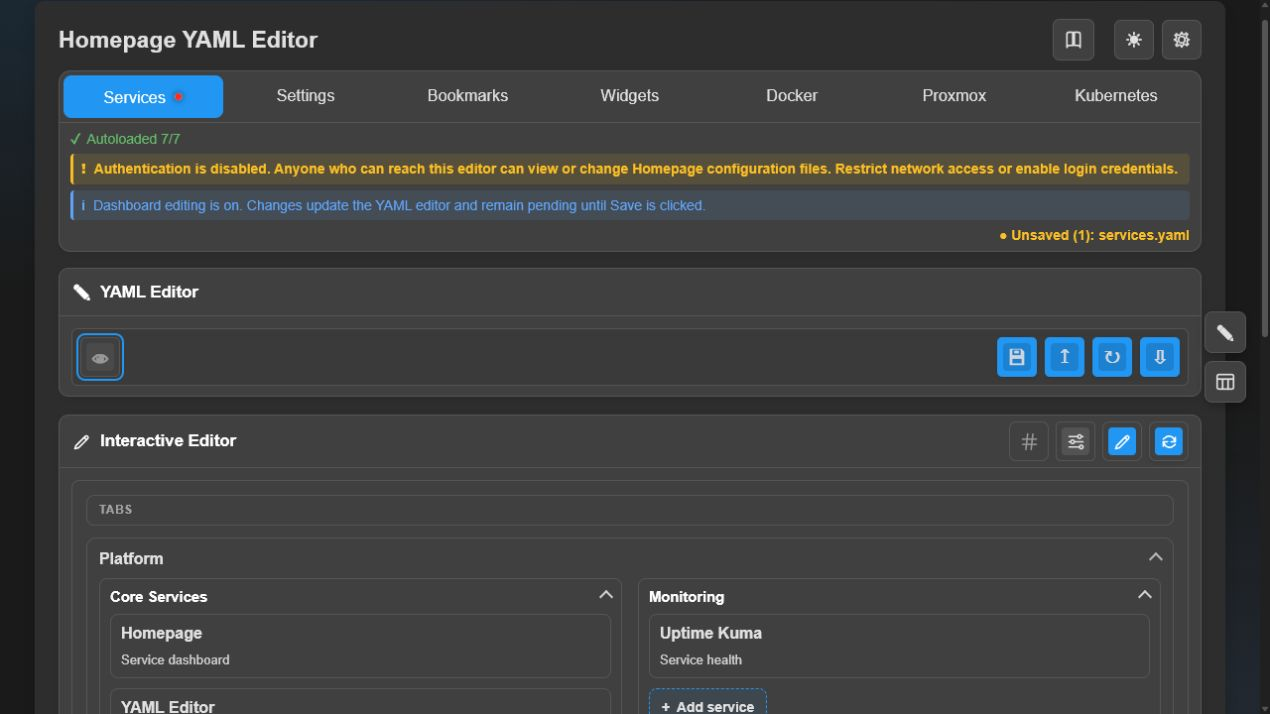
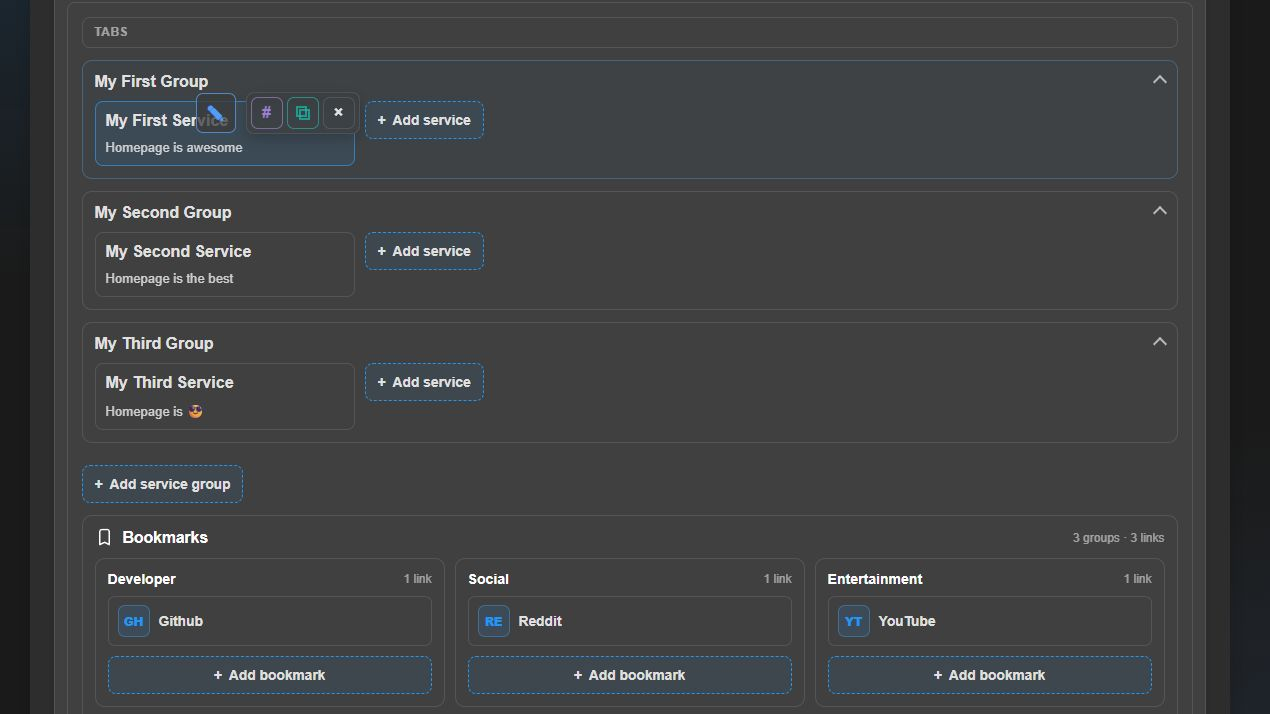
docs: update README with corrected screenshots, deployment instructions, and typos
- Replace old screenshots with updated versions (yaml-editor.jpg, live-preview.jpg)
- Remove deprecated test-yaml-editor.jpg
- Fix broken curl command in Docker Compose quick start
- Fix grammar and typos (int he -> in the, a Interactive -> an Interactive)
- Bump styles.css cache version to 236

diff --git a/public/styles.css b/public/styles.css
@@ -1185,8 +1185,9 @@
         }
         .preview-tab > .preview-edit-actions {
             position: absolute;
-            top: -10px;
-            right: -6px;
+            top: -32px;
+            left: 50%;
+            right: auto;
             z-index: 6;
             justify-content: flex-end;
             margin: 0;
@@ -1196,7 +1197,7 @@
             background: transparent;
             opacity: 0;
             pointer-events: none;
-            transform: translateY(-4px);
+            transform: translate(-50%, -4px);
             transition: opacity 0.15s ease, transform 0.15s ease;
         }
         .preview-tab > .preview-edit-actions .preview-edit-action {
@@ -1214,7 +1215,7 @@
         .preview-tab > .preview-edit-actions:has(.preview-edit-action:focus-visible) {
             opacity: 1;
             pointer-events: auto;
-            transform: translateY(0);
+            transform: translate(-50%, 0);
         }
         .preview-tab-rename-input {
             align-self: center;

diff --git a/public/index.html b/public/index.html
@@ -7,7 +7,7 @@
     <link rel="icon" href="favicon.ico?v=2" type="image/x-icon">
     <link rel="shortcut icon" href="favicon.ico?v=2" type="image/x-icon">
     <link rel="stylesheet" href="vendor/codemirror/codemirror.min.css?v=5.65.16">
-    <link rel="stylesheet" href="styles.css?v=233">
+    <link rel="stylesheet" href="styles.css?v=236">
     <script src="runtime-config.js"></script>
     <script src="theme-bootstrap.js?v=1"></script>
 </head>

diff --git a/public/login.html b/public/login.html
@@ -5,7 +5,7 @@
     <meta name="viewport" content="width=device-width, initial-scale=1.0">
     <title>Sign In - Homepage YAML Editor</title>
     <link rel="icon" href="favicon.ico?v=2" type="image/x-icon">
-    <link rel="stylesheet" href="styles.css?v=233">
+    <link rel="stylesheet" href="styles.css?v=236">
     <script src="runtime-config.js"></script>
     <script src="theme-bootstrap.js?v=1"></script>
 </head>

diff --git a/README.md b/README.md
@@ -1,24 +1,30 @@
 # Homepage YAML Editor
 
-Homepage YAML Editor is a browser-based editor for [Homepage](https://gethomepage.dev/) configuration files. Edit YAML beside your Homepage dashboard with syntax highlighting, validation, a live preview, and an Interactive Editor for common dashboard changes.
+Homepage YAML Editor is a browser-based editor for [Homepage](https://gethomepage.dev/) configuration files. Designed to run alongside Homepage dashboard, edit your YAML with syntax highlighting, validation, a live preview, or an Interactive Editor.
 
 ## Screenshots
 
 ### YAML editor and live preview
 
-![YAML editor and live preview](screenshots/test-yaml-editor.jpg)
+![YAML editor and live preview](screenshots/yaml-editor.jpg)
 
-Edit raw YAML with CodeMirror, switch between supported files, use the editor toolbar, and preview the resulting Homepage layout in the same workspace.
+Edit raw YAML with CodeMirror, with the ability to jump between the services and settings YAML while staying in the same service group.
+
+### Live preview
+
+![YAML editor and live preview](screenshots/live-preview.jpg)
+
+Preview the resulting Homepage layout in the same workspace.
 
 ### Interactive Editor with nested groups
 
 ![Interactive Editor with nested groups](screenshots/interactive-editor.jpg)
 
-Add, edit, move, reorder, and remove supported dashboard items from the preview, including nested service groups and their services.
+Add, edit, move, reorder, and remove supported dashboard items from the preview, including nested service groups.
 
 ## Highlights
 
-- Supports `services`, `settings`, `bookmarks`, `widgets`, `docker`, `proxmox`, and `kubernetes` YAML files.
+- Supports `services`, `settings`, `bookmarks`, `widgets`, `docker`, `proxmox`, and `kubernetes` Homepage YAML files.
 - Preserves source YAML text, comments, and formatting when files are loaded and saved.
 - Provides syntax highlighting, line numbers, auto-indent, comment toggling, validation, and preview-to-source navigation.
 - Renders groups, nested groups, service cards, bookmarks, widgets, icons, layouts, and common Homepage options in the preview.
@@ -34,8 +40,7 @@ Add, edit, move, reorder, and remove supported dashboard items from the preview,
 The recommended deployment runs Homepage and Homepage YAML Editor together with a shared configuration directory:
 
 ```sh
-git clone https://github.com/mayoko185/homepage-yaml-editor.git
-cd homepage-yaml-editor
+curl -O https://raw.githubusercontent.com/mayoko185/homepage-yaml-editor/refs/heads/main/docker-compose.yml
 # Edit the config volume path and HOMEPAGE_ALLOWED_HOSTS in docker-compose.yml if needed
 docker compose up -d
 ```
